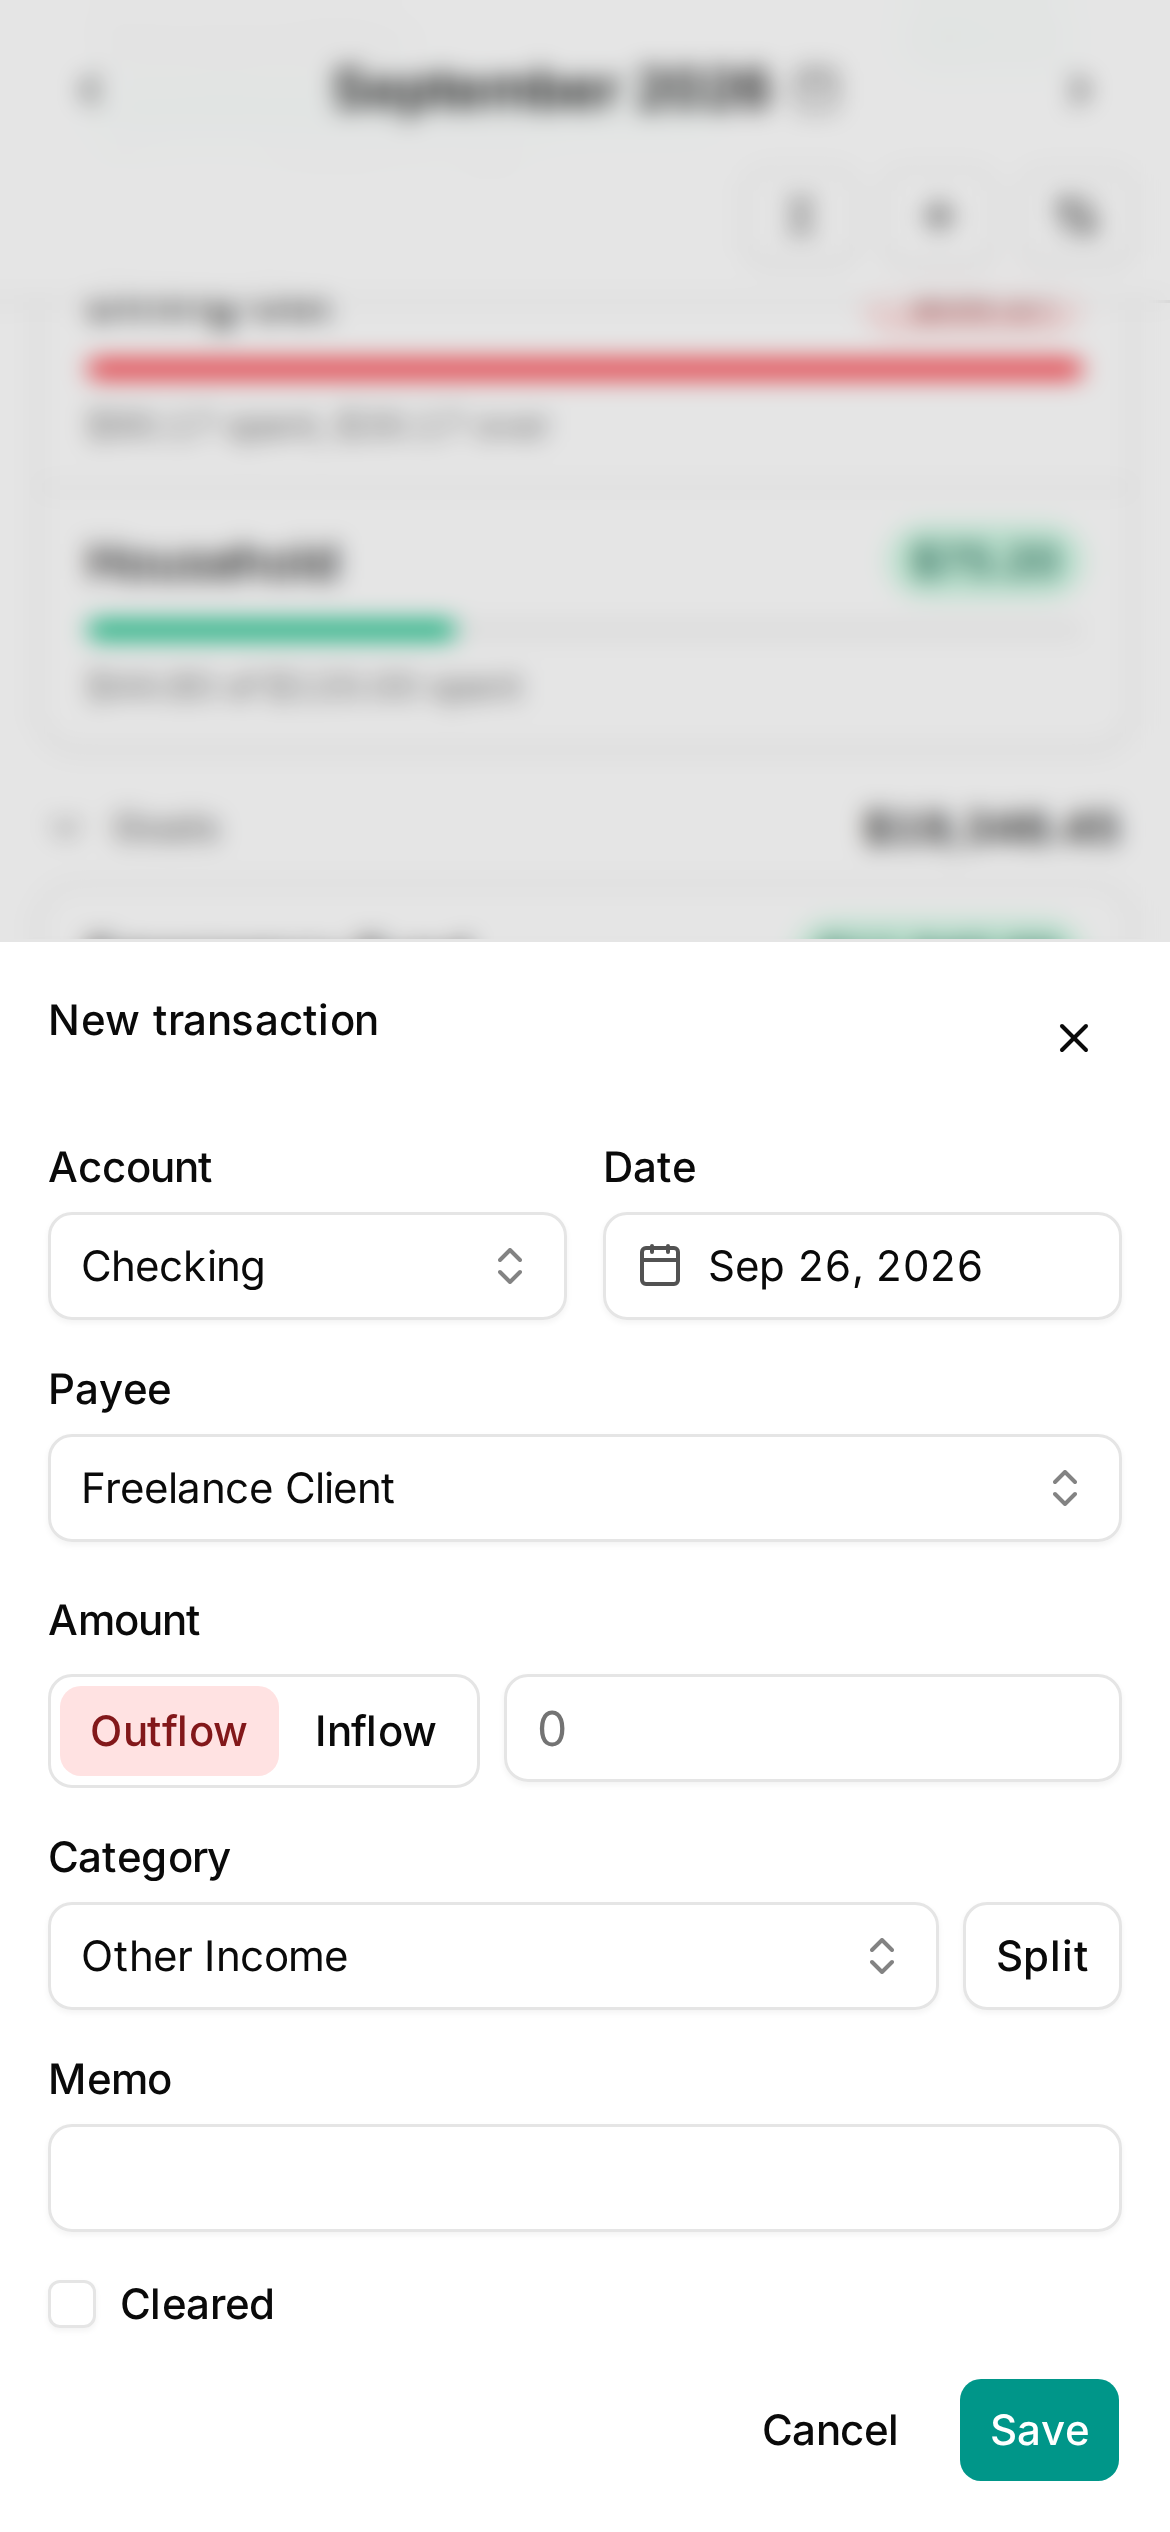
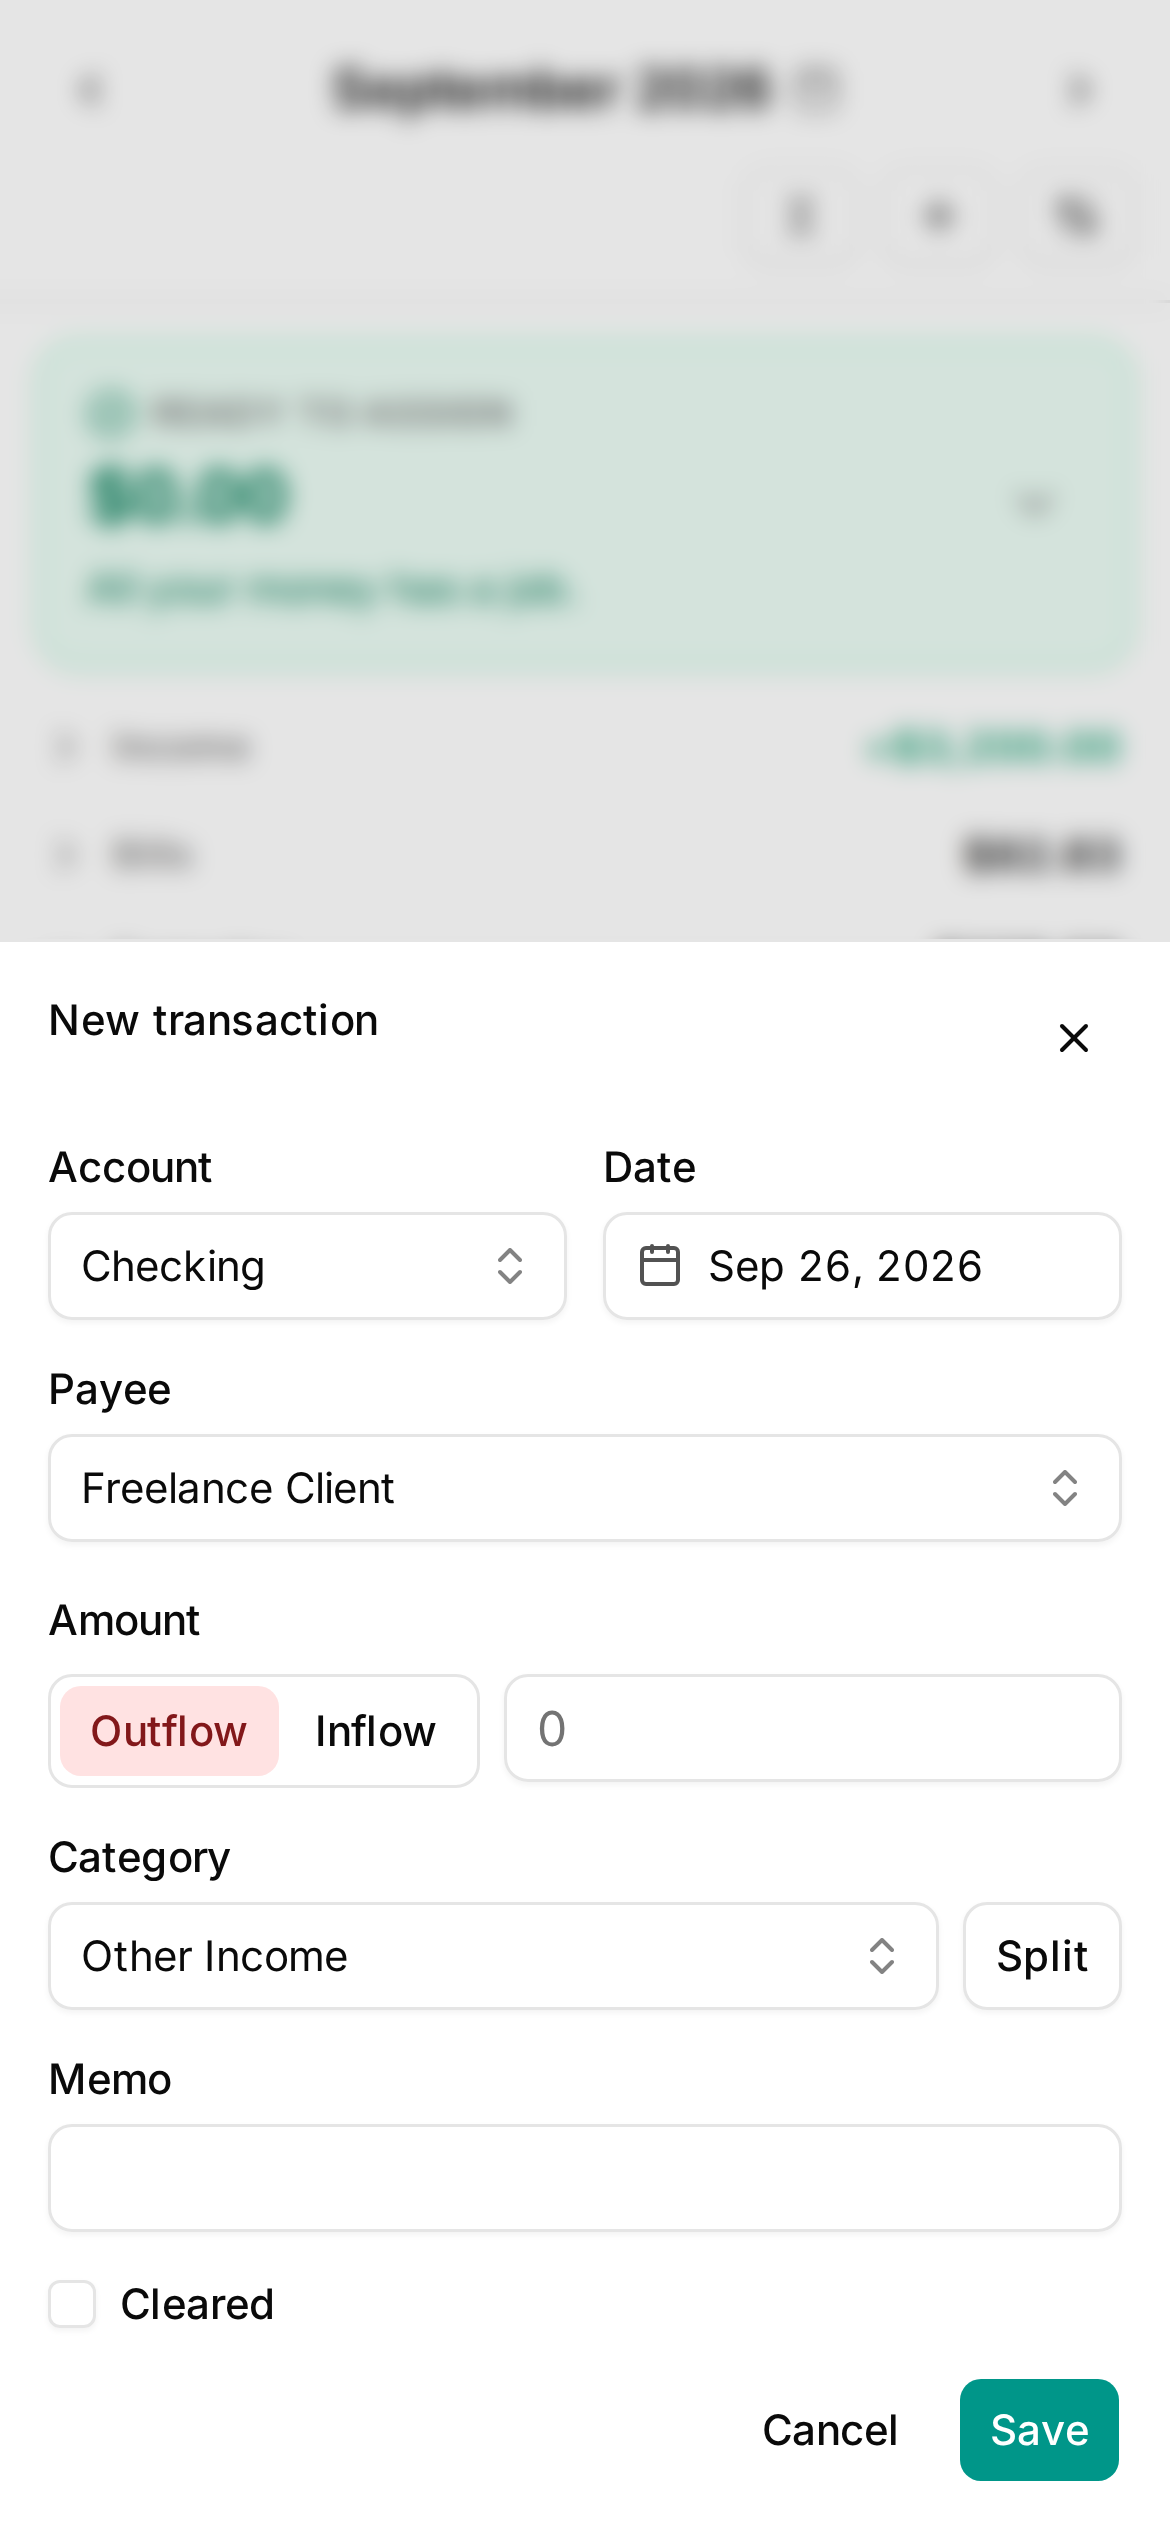
fix: show every step of the new transaction, and answer each click at once
The payee's default category filled the category field before the video "picked" it, and on the
phone the payee appeared already chosen. Now the list opens, the search is typed and the
result is tapped on both cuts; the category step is gone, and the field lights up with a note
that it came from the payee. Every screen now changes two frames after its click or tap
(Inflow on the phone lagged half a second), and Save comes earlier, so Ready to Assign holds
longer.

The resize beat no longer cuts from Net worth to the budget: the phone taps its Budget tab and
the desktop clicks Budget in the sidebar first.

The renders are updated in the next commit.

Changed region(s): [[0.0615, 0.0936, 0.9231, 0.3432], [0.6769, 0.2808, 0.9538, 0.3744], [0.7692, 0.1872, 0.9231, 0.2496]]

diff --git a/video/src/scenes/scripts.ts b/video/src/scenes/scripts.ts
@@ -22,6 +22,8 @@ export type Script = {
 	chip: { f: number; from: [number, number]; to: [number, number] };
 	rtaGlow: { f: number; b: Box; color: string }[];
 	notes: Note[];
+	/** The category field lighting up when the payee fills it. */
+	fieldGlow: { f: number; b: Box };
 	availRing: { f: number; b: Box };
 	chart: { f: number; b: Box };
 	/** Cursor visibility (desktop). */
@@ -30,9 +32,9 @@ export type Script = {
 	snap?: number;
 };
 
-/** The Ready to Assign card's own colours: amber while money waits, green at zero. */
 /** Phone budget: the sticky header ends here and the bottom bar starts here (CSS px). */
 const PHONE_BARS = { top: 101, bottom: 789 };
+/** The Ready to Assign card's own colours: amber while money waits, green at zero. */
 const AMBER = '#f59e0b';
 const GREEN = '#10b981';
 
@@ -123,7 +125,12 @@ function desktop(): Script {
 	const chart = box('d23-networth', 'chart');
 	const chartC: [number, number] = [chart.x + chart.w / 2, chart.y + chart.h / 2];
 	const nw = center('d22-reports', 'netWorth');
+	// The sidebar's links are 36 px apart; Budget is three above Reports.
+	const reportsLink = box('d20-assigned', 'reports');
+	const budgetLink: [number, number] = [reportsLink.x + 70, reportsLink.y - 108 + reportsLink.h / 2];
 	const save = center('d14-cat-set', 'save');
+	const cat = box('d07-payee-set', 'category');
+	const SAVE = A + 380;
 	const rtaFocus: [number, number] = [700, rtaC[1] + 110];
 	const maxScroll = META['d22-reports-full'].h - 900;
 	const drag = sidebarDrag(D + RS.landscape.sidebar[0], D + RS.landscape.sidebar[1]);
@@ -138,22 +145,19 @@ function desktop(): Script {
 		{ f: T.head, src: 'd01-base' },
 		{ f: A + 36, src: 'd02-hover-add', fx: 'fade', dur: 5 },
 		{ f: A + 52, src: 'd03-dialog', fx: 'fade', dur: 12 },
-		{ f: A + 130, src: 'd04-payee-open', fx: 'fade', dur: 6 },
-		...typing(A + 142, 'd05-payee', 4, 8),
-		{ f: A + 184, src: 'd06-payee-hover', fx: 'fade', dur: 4 },
-		{ f: A + 196, src: 'd07-payee-set', fx: 'fade', dur: 6 },
-		{ f: A + 234, src: 'd08-inflow', fx: 'fade', dur: 5 },
-		{ f: A + 262, src: 'd09-amount-focus', fx: 'fade', dur: 4 },
-		...typing(A + 272, 'd10-amount', 3, 9),
-		{ f: A + 328, src: 'd11-cat-open', fx: 'fade', dur: 6 },
-		...typing(A + 338, 'd12-cat', 5, 7),
-		{ f: A + 382, src: 'd13-cat-hover', fx: 'fade', dur: 4 },
-		{ f: A + 394, src: 'd14-cat-set', fx: 'fade', dur: 6 },
-		{ f: A + 420, src: 'd15-hover-save', fx: 'fade', dur: 4 },
+		{ f: A + 118, src: 'd04-payee-open', fx: 'fade', dur: 6 },
+		...typing(A + 132, 'd05-payee', 4, 9),
+		{ f: A + 182, src: 'd06-payee-hover', fx: 'fade', dur: 4 },
+		// The payee brings its default category along: no category step.
+		{ f: A + 194, src: 'd07-payee-set', fx: 'fade', dur: 6 },
+		{ f: A + 252, src: 'd08-inflow', fx: 'fade', dur: 5 },
+		{ f: A + 284, src: 'd09-amount-focus', fx: 'fade', dur: 4 },
+		...typing(A + 296, 'd10-amount', 3, 10),
+		{ f: A + 364, src: 'd15-hover-save', fx: 'fade', dur: 4 },
 		// Saved: the dialog closes on a budget that still has nothing to assign…
-		{ f: A + 434, src: 'd01-base', fx: 'fade', dur: 12 },
+		{ f: SAVE + 2, src: 'd01-base', fx: 'fade', dur: 12 },
 		// …until the income lands in Ready to Assign.
-		{ f: A + 474, src: 'd16-rta-850', fx: 'fade', dur: 14 },
+		{ f: SAVE + 50, src: 'd16-rta-850', fx: 'fade', dur: 14 },
 		{ f: B + 60, src: 'd17-hover-vac', fx: 'fade', dur: 5 },
 		{ f: B + 76, src: 'd18-vac-edit', fx: 'fade', dur: 5 },
 		...typing(B + 92, 'd19-vac', 4, 9),
@@ -161,7 +165,8 @@ function desktop(): Script {
 		{ f: R + 40, src: 'd21-hover-reports', fx: 'fade', dur: 5 },
 		{ f: R + 54, src: 'd22-reports-full', fx: 'cards', sticky: reportsSticky },
 		{ f: R + 298, src: 'd23-networth', fx: 'fade', dur: 14 },
-		{ f: D, src: 'sb-start', fx: 'fade', dur: 14 },
+		// Back to the budget from the sidebar before resizing anything.
+		{ f: R + 416, src: 'sb-start', fx: 'fade', dur: 10 },
 		{ f: D + 38, src: 'sb-hover', fx: 'fade', dur: 4 },
 		...drag.entries.slice(1),
 		{ f: D + RS.landscape.sidebar[1] + 8, src: 'sb-rail', fx: 'fade', dur: 8 },
@@ -171,8 +176,8 @@ function desktop(): Script {
 		[T.head, 1, 720, 450],
 		[A + 60, 1, 720, 450],
 		[A + 96, 1.5, dlgC[0], dlgC[1]],
-		[A + 436, 1.5, dlgC[0], dlgC[1]],
-		[A + 470, 1.75, ...rtaFocus],
+		[SAVE + 4, 1.5, dlgC[0], dlgC[1]],
+		[SAVE + 40, 1.75, ...rtaFocus],
 		[B + 30, 1.75, ...rtaFocus],
 		[B + 70, 1.42, 848, vac[1] - 40],
 		[B + 170, 1.42, 848, vac[1] - 40],
@@ -181,26 +186,22 @@ function desktop(): Script {
 		[R + 30, 1, 720, 450],
 		[R + 300, 1, 720, 450],
 		[R + 336, 1.32, chartC[0], chartC[1] - 20],
-		[R + 390, 1.32, chartC[0], chartC[1] - 20],
-		[R + 414, 1, 720, 450]
+		[R + 376, 1.32, chartC[0], chartC[1] - 20],
+		[R + 398, 1, 720, 450]
 	];
 	const path: PathKey[] = [
 		[A - 10, 1150, 820],
 		[A + 40, ...center('d01-base', 'add')],
-		[A + 70, ...center('d01-base', 'add')],
-		[A + 124, ...center('d03-dialog', 'payee')],
-		[A + 168, ...center('d03-dialog', 'payee')],
-		[A + 186, ...center('d06-payee-hover', 'item')],
-		[A + 198, ...center('d06-payee-hover', 'item')],
-		[A + 226, ...center('d07-payee-set', 'inflow')],
-		[A + 238, ...center('d07-payee-set', 'inflow')],
-		[A + 256, ...center('d07-payee-set', 'amount')],
-		[A + 300, ...center('d07-payee-set', 'amount')],
-		[A + 322, ...center('d07-payee-set', 'category')],
-		[A + 366, ...center('d07-payee-set', 'category')],
-		[A + 384, ...center('d13-cat-hover', 'item')],
-		[A + 402, ...center('d13-cat-hover', 'item')],
-		[A + 424, ...save],
+		[A + 54, ...center('d01-base', 'add')],
+		[A + 106, ...center('d03-dialog', 'payee')],
+		[A + 164, ...center('d03-dialog', 'payee')],
+		[A + 182, ...center('d06-payee-hover', 'item')],
+		[A + 196, ...center('d06-payee-hover', 'item')],
+		[A + 244, ...center('d07-payee-set', 'inflow')],
+		[A + 254, ...center('d07-payee-set', 'inflow')],
+		[A + 276, ...center('d07-payee-set', 'amount')],
+		[A + 326, ...center('d07-payee-set', 'amount')],
+		[A + 362, ...save],
 		[B + 20, ...save],
 		[B + 64, ...vac],
 		[B + 150, ...vac],
@@ -213,7 +214,9 @@ function desktop(): Script {
 		[R + 286, ...nw],
 		[R + 306, ...nw],
 		[R + 344, 1360, 860],
-		[D + 4, 1000, 640],
+		[R + 392, 1360, 860],
+		[R + 412, ...budgetLink],
+		[R + 420, ...budgetLink],
 		[D + 40, ...drag.path[0].slice(1) as [number, number]],
 		...drag.path,
 		[D + RS.landscape.sidebar[1] + 12, 120, 450],
@@ -233,37 +236,34 @@ function desktop(): Script {
 		path,
 		clicks: [
 			A + 50,
-			A + 128,
-			A + 194,
-			A + 232,
-			A + 260,
-			A + 326,
-			A + 392,
-			A + 432,
+			A + 116,
+			A + 192,
+			A + 250,
+			A + 282,
+			SAVE,
 			B + 74,
 			R + 52,
 			R + 296,
+			R + 414,
 			D + RS.landscape.sidebar[0] - 2
 		],
 		taps: [],
-		keys: [...times(A + 142, 4, 8), ...times(A + 272, 3, 9), ...times(A + 338, 5, 7), ...times(B + 92, 4, 9), B + 140],
-		chip: { f: A + 440, from: save, to: [rtaC[0] + 40, rtaC[1]] },
+		keys: [...times(A + 132, 4, 9), ...times(A + 296, 3, 10), ...times(B + 92, 4, 9), B + 140],
+		chip: { f: SAVE + 16, from: save, to: [rtaC[0] + 40, rtaC[1]] },
 		rtaGlow: [
-			{ f: A + 476, b: rta, color: AMBER },
+			{ f: SAVE + 52, b: rta, color: AMBER },
 			{ f: B + 212, b: box('d20-assigned', 'rta'), color: GREEN }
 		],
 		notes: [
-			{ f: A + 492, out: B + 30, at: [rtaAmt.x + 124, rtaAmt.y + rtaAmt.h / 2], text: 'Income lands in Ready to Assign', tone: 'teal' }
+			{ f: SAVE + 68, out: B + 30, at: [rtaAmt.x + 124, rtaAmt.y + rtaAmt.h / 2], text: 'Income lands in Ready to Assign', tone: 'teal' },
+			{ f: A + 206, out: A + 264, at: [cat.x + 4, cat.y + cat.h + 24], text: "Filled from the payee's default category", tone: 'teal' }
 		],
+		fieldGlow: { f: A + 198, b: cat },
 		availRing: { f: B + 150, b: box('d20-assigned', 'vacAvail') },
 		chart: { f: R + 318, b: chart },
 		cursorOn: [
 			[A - 12, 0],
 			[A, 1],
-			[R + 380, 1],
-			[R + 400, 0],
-			[D + 4, 0],
-			[D + 16, 1],
 			[D + RS.landscape.sidebar[1] + 24, 1],
 			[D + RS.landscape.sidebar[1] + 36, 0]
 		],
@@ -283,24 +283,32 @@ function phone(): Script {
 	const chart = box('p13-networth', 'chart');
 	const chartC: [number, number] = [chart.x + chart.w / 2, chart.y + chart.h / 2];
 	const card1 = box('p12-reports-full', 'card1');
+	// The tab bar has five equal tabs; Budget is the first, three to the left of Reports.
+	const tab = box('p11-top', 'reportsTab');
+	const budgetTab: [number, number] = [tab.x - 3 * tab.w + tab.w / 2, tab.y + tab.h / 2];
 	const save = center('p02-sheet', 'save');
+	const cat = box('p03-payee', 'category');
 	const entries: Entry[] = [
 		{ f: T.head, src: 'p01-base' },
-		{ f: A + 46, src: 'p02-sheet', fx: 'sheet', dur: 22, sheet },
-		{ f: A + 108, src: 'p03-payee', fx: 'fade', dur: 8 },
-		{ f: A + 184, src: 'p04-amount-1', fx: 'fade', dur: 5 },
-		{ f: A + 193, src: 'p04-amount-2' },
-		{ f: A + 202, src: 'p04-amount-3' },
-		{ f: A + 256, src: 'p05-cat', fx: 'fade', dur: 8 },
+		{ f: A + 42, src: 'p02-sheet', fx: 'sheet', dur: 22, sheet },
+		{ f: A + 98, src: 'p02b-payee-open', fx: 'fade', dur: 6 },
+		...typing(A + 112, 'p02c-payee', 4, 9),
+		// The payee brings its default category along: no category step.
+		{ f: A + 160, src: 'p03-payee', fx: 'fade', dur: 6 },
+		{ f: A + 212, src: 'p03b-inflow', fx: 'fade', dur: 4 },
+		{ f: A + 232, src: 'p03c-amount-focus', fx: 'fade', dur: 4 },
+		{ f: A + 244, src: 'p04-amount-1', fx: 'fade', dur: 3 },
+		{ f: A + 253, src: 'p04-amount-2' },
+		{ f: A + 262, src: 'p04-amount-3' },
 		{ f: A + 304, src: 'p01-base', fx: 'fade', dur: 14 },
 		{ f: A + 354, src: 'p06b-rta-top', fx: 'fade', dur: 14 },
 		{ f: B + 40, src: 'p07-scrolled', fx: 'scroll', dur: 20, fixed: PHONE_BARS },
-		{ f: B + 80, src: 'p08-cat-sheet', fx: 'sheet', dur: 22, sheet: catSheet },
-		...typing(B + 124, 'p09-vac', 4, 9),
-		{ f: B + 182, src: 'p10-assigned', fx: 'fade', dur: 12 },
+		{ f: B + 76, src: 'p08-cat-sheet', fx: 'sheet', dur: 22, sheet: catSheet },
+		...typing(B + 118, 'p09-vac', 4, 9),
+		{ f: B + 178, src: 'p10-assigned', fx: 'fade', dur: 12 },
 		{ f: B + 214, src: 'p11-top', fx: 'scroll', dur: 20, fixed: PHONE_BARS },
 		{
-			f: R + 46,
+			f: R + 42,
 			src: 'p12-reports-full',
 			fx: 'cards',
 			sticky: {
@@ -312,7 +320,9 @@ function phone(): Script {
 				]
 			}
 		},
-		{ f: R + 298, src: 'p13-networth', fx: 'fade', dur: 14 },
+		{ f: R + 294, src: 'p13-networth', fx: 'fade', dur: 14 },
+		// Back to the budget from the tab bar before the phone grows into a desktop.
+		{ f: R + 406, src: 'p11-top', fx: 'fade', dur: 10 },
 		...accentEntries('acc-reports', [1380, 30])
 	];
 	const cam: CamKey[] = [
@@ -334,8 +344,8 @@ function phone(): Script {
 		[R + 20, 1, 195, 422],
 		[R + 300, 1, 195, 422],
 		[R + 336, 1.25, 195, chartC[1]],
-		[R + 394, 1.25, 195, chartC[1]],
-		[R + 416, 1, 195, 422]
+		[R + 376, 1.25, 195, chartC[1]],
+		[R + 398, 1, 195, 422]
 	];
 	return {
 		vw: 390,
@@ -353,25 +363,28 @@ function phone(): Script {
 		taps: [
 			[A + 40, ...center('p01-base', 'fab')],
 			[A + 96, ...center('p02-sheet', 'payee')],
-			[A + 146, ...center('p02-sheet', 'inflow')],
-			[A + 170, ...center('p02-sheet', 'amount')],
-			[A + 236, ...center('p02-sheet', 'category')],
+			[A + 158, ...center('p02d-payee-item', 'item')],
+			[A + 210, ...center('p02-sheet', 'inflow')],
+			[A + 230, ...center('p02-sheet', 'amount')],
 			[A + 300, ...save],
 			[B + 74, ...center('p07-scrolled', 'vacName')],
 			[B + 110, ...input],
 			[B + 176, ...center('p08-cat-sheet', 'save')],
 			[R + 40, ...center('p11-top', 'reportsTab')],
-			[R + 292, card1.x + card1.w / 2, card1.y + 150]
+			[R + 292, card1.x + card1.w / 2, card1.y + 150],
+			[R + 404, budgetTab[0], budgetTab[1]]
 		],
-		keys: [...times(A + 184, 3, 9), ...times(B + 124, 4, 9)],
+		keys: [...times(A + 112, 4, 9), ...times(A + 244, 3, 9), ...times(B + 118, 4, 9)],
 		chip: { f: A + 320, from: save, to: [rtaC[0] - 40, rtaC[1] + 10] },
 		rtaGlow: [
 			{ f: A + 356, b: rta, color: AMBER },
 			{ f: B + 262, b: box('p11-top', 'rta'), color: GREEN }
 		],
 		notes: [
-			{ f: A + 372, out: B + 30, at: [rtaAmt.x + 118, rtaAmt.y + rtaAmt.h / 2], text: 'Income lands here', tone: 'teal' }
+			{ f: A + 372, out: B + 30, at: [rtaAmt.x + 118, rtaAmt.y + rtaAmt.h / 2], text: 'Income lands here', tone: 'teal' },
+			{ f: A + 172, out: A + 206, at: [cat.x + 2, cat.y + cat.h + 20], text: 'Filled from the payee', tone: 'teal' }
 		],
+		fieldGlow: { f: A + 164, b: cat },
 		availRing: {
 			f: B + 186,
 			b: { x: 270, w: 100, y: box('p10-assigned', 'vacRow').y + 4, h: 34 }

diff --git a/video/src/scenes/Stage.tsx b/video/src/scenes/Stage.tsx
@@ -116,7 +116,7 @@ export const Stage: React.FC = () => {
 			const a = prog(g, D + RS.portrait.swap[0], D + RS.portrait.swap[1]);
 			content = (
 				<>
-					<Pic src="p13-networth" />
+					<Pic src="p11-top" />
 					<div style={{ position: 'absolute', inset: 0, opacity: a, background: '#fff' }}>
 						<Pic src={rsSrc} />
 					</div>
@@ -154,6 +154,7 @@ export const Stage: React.FC = () => {
 				<Glow key={i} g={g} f={r.f} b={r.b} color={r.color} />
 			))}
 			<Glow g={g} f={s.availRing.f} b={s.availRing.b} radius={999} len={portrait ? 30 : 70} />
+			<Glow g={g} f={s.fieldGlow.f} b={s.fieldGlow.b} radius={8} len={portrait ? 50 : 76} />
 			{s.notes.map((n, i) => (
 				<Badge key={i} g={g} note={n} portrait={portrait} />
 			))}
